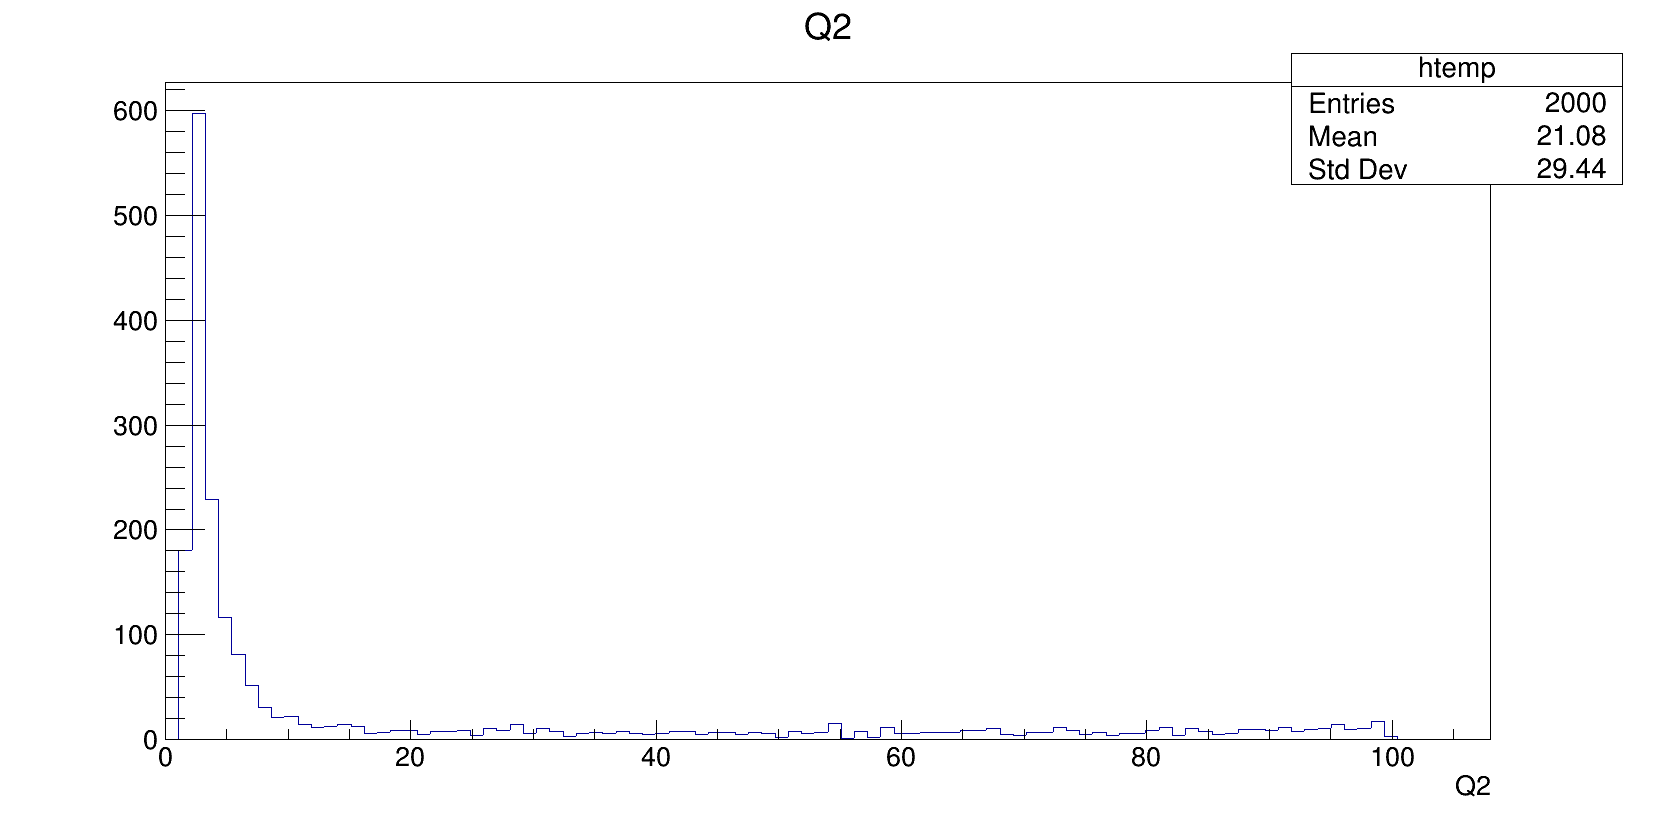
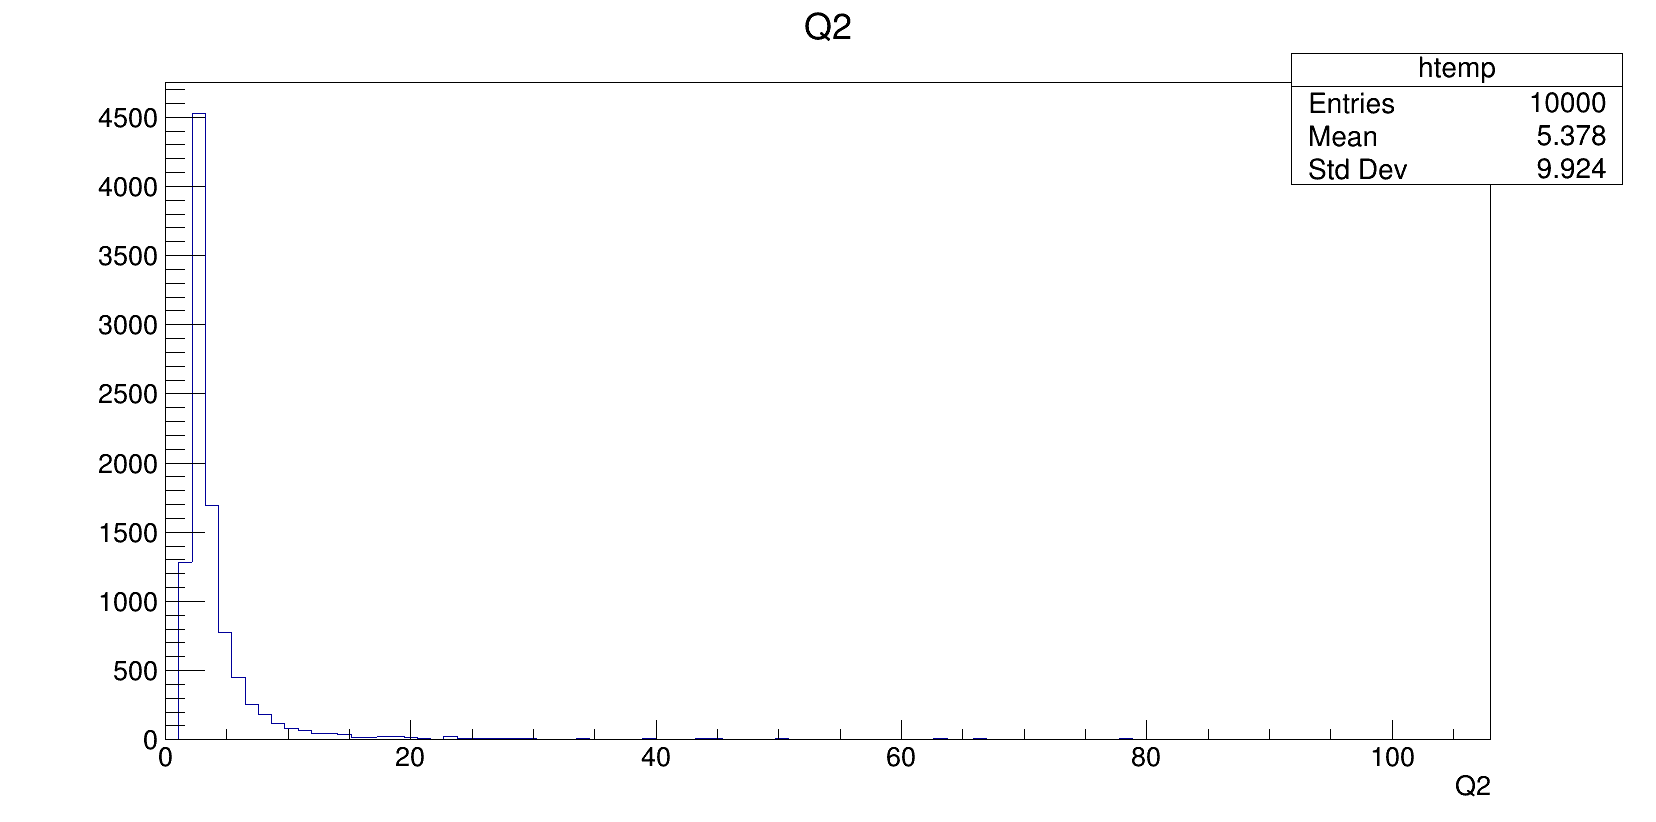
Work office 18012021

diff --git a/PbWO4_test/test_difference.C b/PbWO4_test/test_difference.C
@@ -1,0 +1,67 @@
+
+
+void test_difference()
+{
+  string line, root_file_name, data_file_path, file_0_str, crystal; //for storing words
+  string Crtstal_ID_str[10] = {"010647", "010667", "030651", "040668", "050658", "050666", "080671", "160669", "994724", "994763"};
+  int count=0, file_0[10] = {68, 77, 33, 115, 41, 97, 88, 52, 106, 60}, pic_count=0;
+
+  
+  TH1F *h1[10], *h2[10], *h3_sud[10];
+  TCanvas *c1 = new TCanvas("c1", "c1", 1200, 800);
+  c1->Divide(4,3);
+
+  
+  for(int i = 0 ; i < 10 ; i++)
+    {
+      c1->cd((i + 1));
+      
+      int file_start = file_0[i];
+      string ID = Crtstal_ID_str[i];
+      
+      h3_sud[i] = new TH1F(Form("h3_sud_%d", i), "test2", 100, -2, 4);
+      h3_sud[i]->SetStats(0);
+      h3_sud[i]->SetTitle("");
+      
+      for(int j = file_start ; j < (file_start + 2) ; j++)
+	{
+	  data_file_path = "./PbWO4_test_15122020_New_crystal/Crystal_" + ID + "/Sample"+ j +".Sample.Raw.asc";
+	  h1[count] = new TH1F(Form("h1_%d", i),"test1", 200, 300, 4);
+	  h2[count] = new TH1F(Form("h2_%d", i),"test2", 200, -4, 4);
+	  
+	  const char *dfp = data_file_path.c_str();
+	  bookread.open(dfp);
+	  if(bookread.is_open())
+	    { 
+	      while(!(bookread.eof()))
+		{ 
+		  line = ""; 
+		  getline(bookread, line); 
+
+		  if( (line.size() == 21) || (line.size() == 20) )
+		    {
+
+		      line_string << line;
+		      line_string >> L >> T;
+
+		      wave_length.push_back(L);
+		      transmittance.push_back(T);
+		    }
+		}
+	    }
+
+	  h1[j]->Draw();
+	  count++;
+	  
+	  TPad *subpad = new TPad("subpad", "", 0., 0., 1., 0.2);
+	  subpad->Draw();
+	  subpad->cd();
+
+	}
+      
+      h3_sud[i]->Draw();
+      count++;
+    }
+
+
+}

diff --git a/foam_v1/foam_demo.C b/foam_v1/foam_demo.C
@@ -59,7 +59,7 @@ Int_t main()
 
 
   //-----------------------------------------
-  long NevTot   =      2000;   // Total MC statistics
+  long NevTot   =     10000;   // Total MC statistics
   Int_t  kDim   =         4;   // total dimension
   Int_t  nCells   =    2000;   // Number of Cells
   Int_t  nSampl   =     100;   // Number of MC events per cell in build-up
@@ -118,10 +118,10 @@ Int_t main()
       //      Q2 = 5.;
       
       xb_min = 2. * Eb * Q2 / (Mass * (4 * TMath::Power(Eb, 2)-Q2));
-      xb = TMath::Sqrt( 0.0001 / (MCvect[1] * (0.1 - 0.01) + 0.01));
-      //      xb = MCvect[1] * (0.001 - 0.0001) + 0.0001;	
+      //      xb = TMath::Sqrt( 0.0001 / (MCvect[1] * (0.1 - 0.01) + 0.01));
+      xb = MCvect[1] * (0.1 - 0.0001) + 0.0001;	
       //      xb = TMath::Power(10., (-1. - MCvect[1] * 3.));
-      //      xb = 0.005 + xb_min;
+      //      xb = 0.1;
 
       t_var = -1. * MCvect[2];
       //      t_var = -1. * TMath::Power(10, (-4.*MCvect[2]));
@@ -143,7 +143,7 @@ Int_t main()
       phi_vec.push_back(phi);
       */      
  
-      if( ((loop) % 200) == 0 )
+      if( ((loop) % 2000) == 0 )
 	cout << n_effec << endl;
 	//	cout << "loop = " << loop << ", " << Q2 << ", " << xb << ", " << t_var << ", " << phi << " || Simulation integral: " << xsec_Integral << " || xsec value: " << endl;
     }
